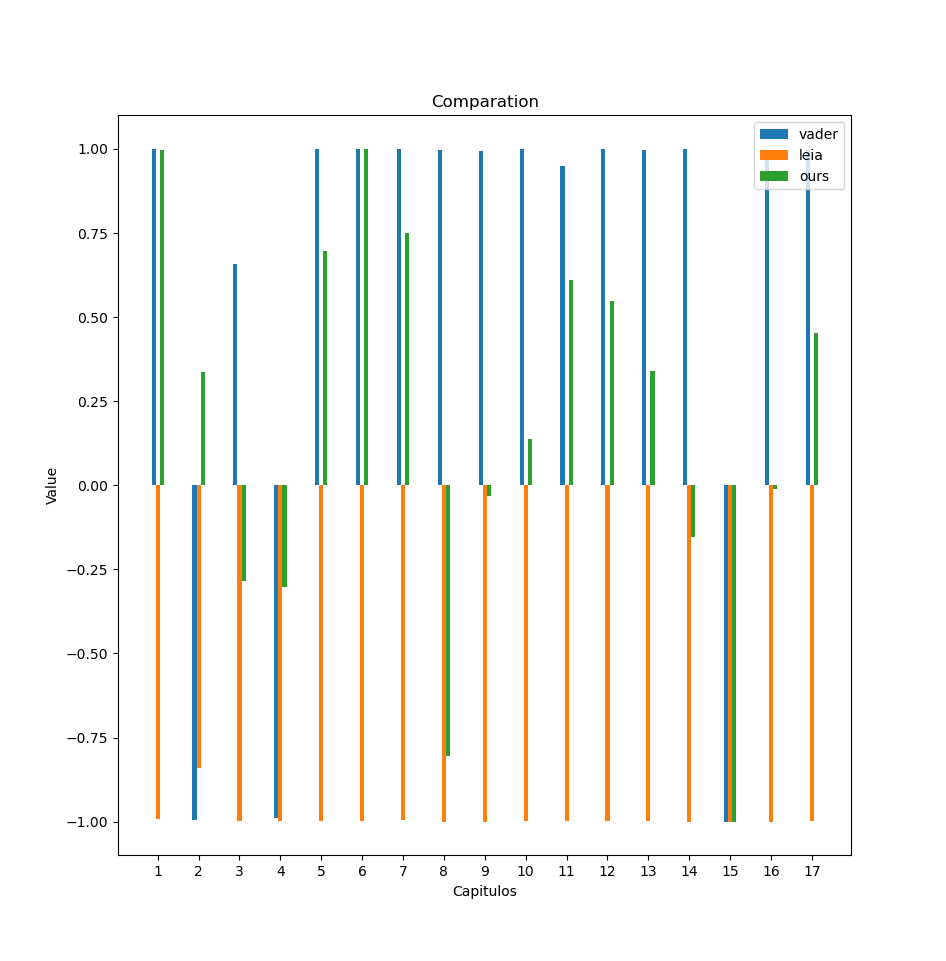
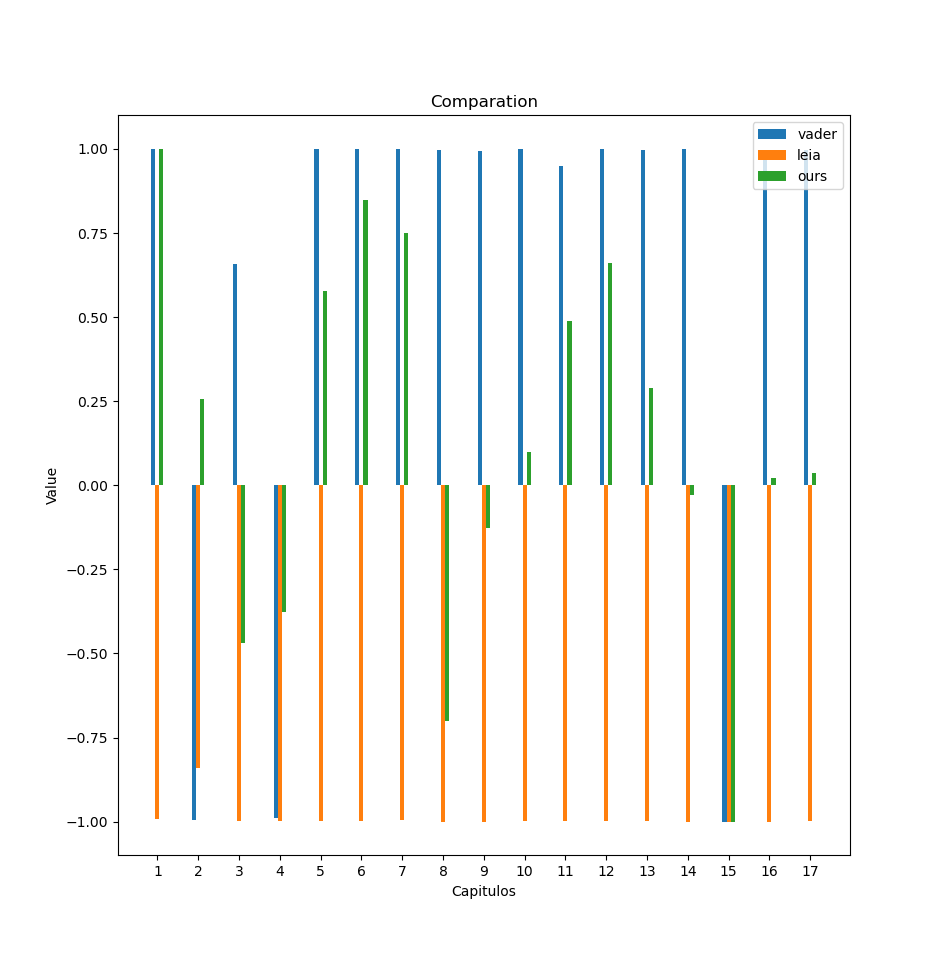
modifiers applied with mask

diff --git a/sentimentAnalizis/sentimentAnalizis/parser.py b/sentimentAnalizis/sentimentAnalizis/parser.py
@@ -56,41 +56,51 @@ def process(input: str) -> list[list[str]]:
 #Takes a list of words and returns a list of tokens
 #Each token is either a base value, or a modifier
 def tokenize(sentence: list[str]) -> Iterable[Base|Modifier]:
+    pos=0
     while sentence != []:
         (consumed, token) = tokens.search(sentence)
         if token != None:
-            yield deepcopy(token)
+            nt = deepcopy(token)
+            nt.pos=pos
+            yield nt
             sentence = sentence[consumed:]
         else:
             sentence = sentence[1:]
+        pos+=1
 
 
 
 
-def applyModifiers(base: Base, index: int, modifiers: list[tuple[int,Modifier]]):
+def applyModifiers(bases:dict[int,Base],mod: list[Modifier]):
     (before, after) = modify_mask
+    
+    for p,mask in enumerate(reversed(before)):
+        pos = (p*-1)-1+mod.pos
+        if pos in bases:
+            bases[pos].apply(mod,mask)
+            
+    for p,mask in enumerate(after):
+        pos = p+1+mod.pos
+        if pos in bases:
+            bases[pos].apply(mod,mask)
 
-    cutoff = bisect_left(modifiers, index, 0, None, key=lambda im: im[0])
-    first = bisect_left(modifiers, index - len(after), 0, cutoff, key=lambda im: im[0])
-    last = bisect_right(modifiers, index + len(before) - 1, cutoff, None, key=lambda im: im[0])
-
-    for (i, m) in modifiers[first:cutoff]:
-        base.apply(m, after[index-i-1])
-
-    for (i, m) in modifiers[cutoff:last]:
-        base.apply(m, before[len(before)+index-i-1])
+    
+        
 
 #The modifier tokens act on the base values around them according to the modify_mask
 #Then the modified values are added together
 def evaluate(tokens: list[Base|Modifier]) -> list[Base]:
-    enumerated = list(enumerateWhen(tokens, lambda t: not t.is_modifier()))
-    bases = [(i,t) for i,t in enumerated if not t.is_modifier()]
-    modifiers = [(i,t) for i,t in enumerated if t.is_modifier()]
+    modifiers=[]
+    bases={}
+    for t in tokens:
+        if t.is_modifier(): modifiers.append(t)
+        else: bases[t.pos] = t
 
-    for i, b in bases:
-        applyModifiers(b, i, modifiers)
+    for m in modifiers:
+        applyModifiers(bases, m)
+        
+    return bases.values()
 
-    return [b for _,b in bases]
 
 
 #We can now use the already calculated tokens to add the emojis into the tokens

diff --git a/sentimentAnalizis/sentimentAnalizis/Token.py b/sentimentAnalizis/sentimentAnalizis/Token.py
@@ -2,6 +2,7 @@ class Modifier:
     def __init__(self, text: str, value: float):
         self.text = text
         self.value = value
+        self.pos=0
 
     def __str__(self) -> str:
         return f"<{self.text}|*{self.value}>"
@@ -18,6 +19,7 @@ class Base:
         self.base_value = value
         self._value = value
         self.modifiers = []
+        self.pos=0
 
     def __str__(self) -> str:
         return f"<{self.text}|{'-' if self.base_value < 0 else '+'}{abs(self.base_value)}|{'-' if self._value < 0 else '+'}{abs(self._value)}>"

diff --git a/exemplos.md b/exemplos.md
@@ -1,12 +1,20 @@
 1. Senhores, uma breve visão do passado. Trinta anos atrás, Niki Lauda nos disse: ‘pegue um macaco, coloque-o na cabine e ele será capaz de dirigir o carro.’ Trinta anos depois, Sebastian nos disse: ‘Tive que ligar meu carro como um computador, é muito complicado. ' E Nico Rosberg disse que durante a corrida – não me lembro qual corrida – ele apertou o botão errado no volante. Pergunta para vocês dois: a condução da Fórmula 1 hoje é muito complicada com vinte ou mais botões no volante, vocês estão sob muito esforço, sob pressão? Quais são os seus desejos para o futuro em relação ao programa técnico durante a corrida? Menos botões, mais? Ou cada vez mais comunicação com seus engenheiros?
 
+-0.055502414086
+
 2. Entendo que, sem o meu acordo, a Alpine F1 divulgou um comunicado à imprensa no final da tarde informando que estarei pilotando para eles no próximo ano. Isso está errado e não assinei contrato com a Alpine para 2023. Não dirigirei pela Alpine no próximo ano.
 
+-0.022346009607
+
 3. O meu maior problema é que a minha namorada mora muito longe. Eu moro aqui e ela mora no futuro.
+
+0.071492613690
 
 4. O movimento estudantil do ensino superior manifesta o seu veemente repúdio pela decisão do sr. primeiro-ministro indigitado, Luís Montenegro de não criar um ministério exclusivo para a ciência, tecnologia e ensino superior, optando por incorporar estas áreas no ministério da educação.
 Esta medida, ao juntar o ensino superior a outras áreas da educação, demonstra um claro desrespeito pela importância e especifidades do ensino superior e da importância estratégica da ciência para o crescimento económico do país. Ao não atribuir um ministério próprio, o governo deixa claro que não reconhece a necessidade de políticas e investimentos específicos para promover a excelência e a valorazição desta área em Portugal.
 O ensino superior desempenha um papel fundamental, no desenvolvimento do país, contribuíndo para a inovação, a investigação e o progresso social e económico. Ao desvalorizar esta área, o governo compromete o futuro do país e prejudica não só os estudantes, mas também a sociedade no seu todo. O movimento estudantil insta o governo a reconsiderar - esta decisão e a dar a devida prioridade ao ensino superior, garantindo-lhe a atenção e os recursos necessários para que possa cumprir plenamente a sua missão de formar os cidadãos qualificados e contribuir para o desenvolvimento sustentável de Portugal.
+
+0.187749655864
 
 5. No universo dos debates sobre os efeitos dos videojogos, muitas vozes se levantam com opiniões fortes e infundadas, especialmente quando se trata da suposta relação entre jogos eletrônicos e comportamento violento em jovens. Entre essas vozes, encontramos indivíduos desinformados que, sem evidências sólidas, propagam a ideia de que os videojogos são responsáveis por incitar a violência entre os jovens.
 Para muitos desses indivíduos, a simples ideia de um jovem passar horas diante de uma tela, imerso em um mundo virtual repleto de combates e confrontos, é suficiente para alimentar o temor de que tais experiências possam desencadear comportamentos agressivos na vida real. "Eu sempre ouvi dizer que esses jogos violentos deixam os jovens mais agressivos", afirma Maria, uma mãe preocupada. "É como se eles estivessem sendo treinados para serem violentos", complementa João, um pai cuja visão é compartilhada por muitos.
@@ -15,7 +23,11 @@ De fato, muitos jogadores e entusiastas de videojogos destacam os aspectos posit
 É importante reconhecer que a indústria de jogos eletrônicos implementa medidas de classificação etária e conteúdo, visando proteger os jogadores mais jovens de experiências inadequadas para suas idades. Além disso, os pais têm um papel crucial na supervisão do tempo e conteúdo dos jogos aos quais seus filhos têm acesso, promovendo um equilíbrio saudável entre o entretenimento digital e outras atividades.
 Em suma, enquanto algumas vozes continuam a perpetuar o mito da relação direta entre videojogos e violência juvenil, é fundamental basear nossas opiniões em evidências sólidas e compreender os múltiplos fatores que influenciam o comportamento humano. Desmistificar esses preconceitos é essencial para promover uma discussão informada e construtiva sobre o papel dos videojogos na sociedade contemporânea.
 
+-0.020558463771
+
 6. Nada de bom acontence depois das duas da manhã
+
+0.2
 
 7. Este dicionário é o resultado de um exercício de lin-
 guística, de linguagens de programação e de Perl.
@@ -31,8 +43,16 @@ Tecnicamente, este dicionário está a usar a lingua-
 gem programação DPL (dictionary programming lan-
 guage), do projecto Natura
 
+-0.043964453331
+
 8. Não há placa grafica que consiga renderizar a tua figura
+
+0.14
 
 9. 🌧 Nem todos os dias são ensolarados, e às vezes as nuvens parecem dominar o céu. Mas mesmo na escuridão da tempestade, há beleza na chuva que nutre a terra e prepara o terreno para novos começos. 💧🌱 Enfrentemos os dias difíceis com coragem e perseverança, sabendo que após a tormenta, o arco-íris brilhará novamente, trazendo consigo esperança e renovação. 🌈✊
 
+0.181071701647
+
 10. Às vezes, os diferentes tons de pele 🏻 🏿 tornam-se pontos de divisão em vez de celebração. Em um mundo marcado pela discriminação e pela intolerância, é fácil esquecer que todos compartilhamos a mesma humanidade. A luta pela igualdade e pela justiça é longa e árdua, mas devemos permanecer firmes na busca por um mundo onde a diversidade seja verdadeiramente valorizada e respeitada. 💔🌎
+
+-0.044716484844
